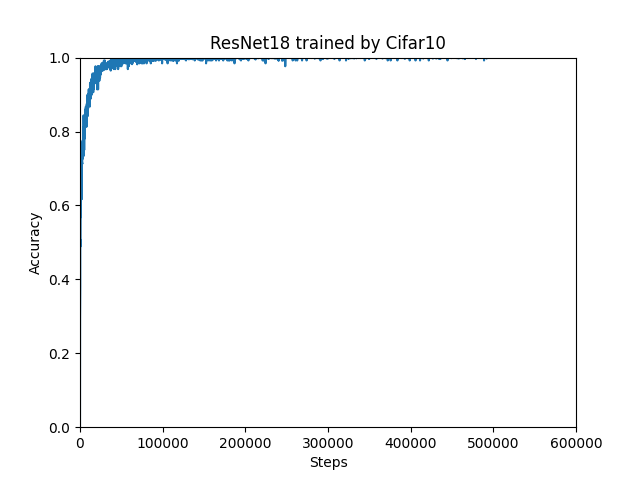
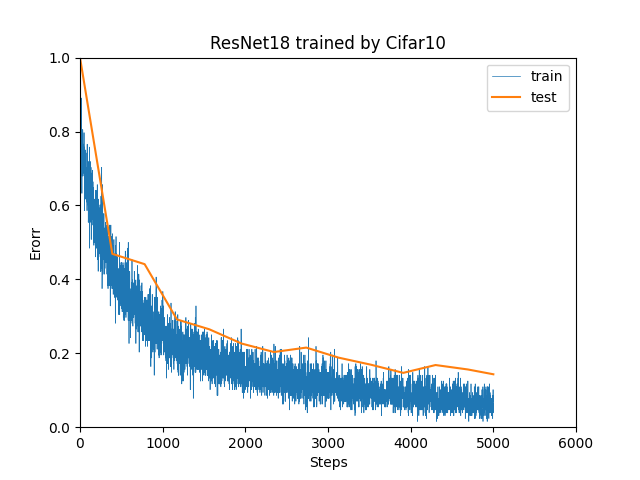
update

diff --git a/workspace/research/dd.py b/workspace/research/dd.py
@@ -7,6 +7,7 @@ import torchvision
 import torchvision.transforms as transforms;
 from sklearn.metrics import classification_report
 import math
+from model import resnet18k
 
 import matplotlib.pyplot as plt
 import csv 
@@ -70,7 +71,8 @@ def main():
     
 def sub():
     #step数指定
-    grad_steps = 500000
+    grad_steps = 50000
+    label_noise_rate = 0.1
     device = 'cuda' if torch.cuda.is_available() else 'cpu'
     transform_train = transforms.Compose([
         transforms.RandomCrop(32, padding=4),
@@ -87,7 +89,7 @@ def sub():
     test_set = torchvision.datasets.CIFAR10(root='./data', train=False, download=True, transform=transform_train)
     test_loader = torch.utils.data.DataLoader(test_set, batch_size=128, shuffle=True, num_workers=2)
     class_names = ('plane', 'car', 'bird', 'cat', 'dog', 'frog', 'ship', 'truck')
-    model = torchvision.models.resnet18(pretrained=False)
+    model = resnet18k.make_resnet18k(k=64)
     model = model.to(device)
     
     criterion = nn.CrossEntropyLoss()
@@ -98,21 +100,25 @@ def sub():
         else:
             return 1.0 / math.sqrt(math.floor(steps / 512.0))
     scheduler = optim.lr_scheduler.LambdaLR(optimizer, lr_lambda = func)
-    x = range(grad_steps + 1)
-    tracc = []
-    teacc = []
-    tracc.append(0)
-    teacc.append(0)
+    x1 = range(grad_steps + 1)
+    x2 = []
+    trerr = []
+    teerr = []
+    trerr.append(1)
+    teerr.append(1)
+    x2.append(0)
     data_save = []
-    model.train()
     count = 0
+    # for batich_idx, (inputs, targets) in enumerate(train_loader):
     while(grad_steps != count):
-        output_list = []
-        target_list = []
         running_loss = 0.0
+        model.train()
         for batich_idx, (inputs, targets) in enumerate(train_loader):
             if(grad_steps == count):
                 break
+
+            output_list = []
+            target_list = []
             inputs, targets = inputs.to(device), targets.to(device)
             outputs = model(inputs)
             loss = criterion(outputs, targets)
@@ -126,14 +132,17 @@ def sub():
             running_loss += loss.item()
 
             train_acc, train_loss = calc_score(output_list, target_list, running_loss, train_loader)
-            train_acc, train_loss = calc_score(outputs, targets, running_loss, train_loader)
             if count % 100 == 0 and count != 0:
                 stdout_temp = 'step: {:>3}/{:<3}, train acc:{:<8}, train loss: {:<8}'
                 print(stdout_temp.format(count, grad_steps, train_acc, train_loss))
-                print(optimizer.param_groups[0]['lr'])
-            tracc.append(train_acc)
+            trerr.append(1.0 - train_acc)
             count += 1
             scheduler.step()
+        test_acc, test_loss = test(model, device, test_loader, criterion)
+        stdout_temp = 'step: {:>3}/{:<3}, test acc:{:<8}, test loss: {:<8}'
+        print(stdout_temp.format(count, grad_steps, test_acc, test_loss))
+        teerr.append(1.0 - test_acc)
+        x2.append(count)
     
     # with open('resnet18-cifat10.csv','w') as file:
     #     writer = csv.writer(file)
@@ -143,8 +152,10 @@ def sub():
     plt.xlim(0, grad_steps * 1.2)
     plt.ylim(0, 1)
     plt.xlabel("Steps")
-    plt.ylabel("Accuracy")
-    plt.plot(x, tracc)
+    plt.ylabel("Erorr")
+    plt.plot(x1, trerr, label = 'train', linewidth=0.5)
+    plt.plot(x2, teerr, label = 'test')
+    plt.legend(loc='upper right')
     plt.savefig("sample1.png")
 
 
@@ -211,4 +222,7 @@ def calc_score(output_list, target_list, running_loss, data_loader):
 if __name__ =='__main__':
     warnings.filterwarnings('ignore')
     # main()
+    import time
+    # start = time.perf_counter()
     sub()
+    # print(time.perf_counter() - start)
